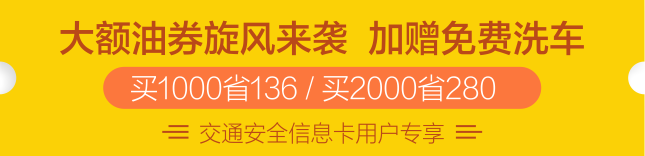
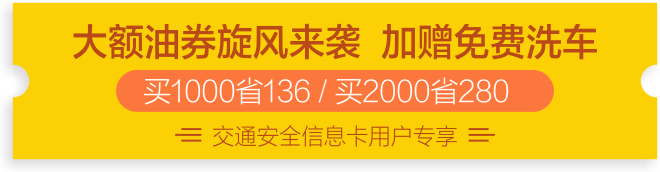
周四秒杀  修改样式 图片 线下调试地址

diff --git a/src/environments/environment.ts b/src/environments/environment.ts
@@ -2,6 +2,8 @@
 // The build system defaults to the dev environment which uses `environment.ts`, but if you do
 // `ng build --env=prod` then `environment.prod.ts` will be used instead.
 // The list of which env maps to which file can be found in `.angular-cli.json`.
+// const baseText = '/ccb-api';
+const baseText = '/cbc-api';
 
 export const environment = {
     production: false,
@@ -10,62 +12,62 @@ export const environment = {
     /**
      * 获取油券列表
      */
-    moneyUrl: '/ccb-api/api/v1/cbc/goods/query',
+    moneyUrl: `${baseText}/api/v1/cbc/goods/query`,
 
     /**
      * 添加订单
      */
-    addOilOrderUrl: '/ccb-api/api/v1/cbc/SecKillOrders',
+    addOilOrderUrl: `${baseText}/api/v1/cbc/SecKillOrders`,
 
     /**
      * 支付订单
      */
-    payOrderdUrl: '/ccb-api/api/v1/cashier/payOrder',
+    payOrderdUrl: `${baseText}/api/v1/cashier/payOrder`,
 
     /**
      * 发送认证信息卡验证码
      */
-    sendAuthMsg: `/ccb-api/api/v1/cbc/auth/sendAuthMsg`,
+    sendAuthMsg: `${baseText}/api/v1/cbc/auth/sendAuthMsg`,
 
     /**
      * 验证并保存信息卡
      */
-    authMsgUrl: `/ccb-api/api/v1/cbc/auth/authMsg`,
+    authMsgUrl: `${baseText}/api/v1/cbc/auth/authMsg`,
 
     /**
      * 查询是否绑定信息卡
      */
-    checkIsAuthUrl: `/ccb-api/api/v1/cbc/auth/checkIsAuth`,
+    checkIsAuthUrl: `${baseText}/api/v1/cbc/auth/checkIsAuth`,
     /**
      * 获取tokenId
      */
-    getTokenUrl: `/ccb-api/api/v1/cbc/account/getToken`,
+    getTokenUrl: `${baseText}/api/v1/cbc/account/getToken`,
 
     /**
      * 汽车养护券
      */
-    receiveVoucher: `/ccb-api/api/v1/cbc/SecKillOrders/giveCareCoupons`,
+    receiveVoucher: `${baseText}/api/v1/cbc/SecKillOrders/giveCareCoupons`,
     /**
      * 获取时间戳
      */
-    getTimeUrl: `/ccb-api/api/v1/cbc/time/nowTime`,
+    getTimeUrl: `${baseText}/api/v1/cbc/time/nowTime`,
 
     /**
      * 汽车养护 获取类别&类别下的商品
      */
-    classifyUrl: `/ccb-api/api/v1/cbc/carLife/category/list`,
+    classifyUrl: `${baseText}/api/v1/cbc/carLife/category/list`,
     /**
      * 汽车养护 下单
      */
-    addCarOrderUrl: `/ccb-api/api/v1/cbc/carLife/orders/add`,
+    addCarOrderUrl: `${baseText}/api/v1/cbc/carLife/orders/add`,
     /**
      * 汽车养护 判断订单是否能够支付
      */
-    judgeCarOrderdUrl: `/ccb-api/api/v1/cbc/carLife/orders/judge`,
+    judgeCarOrderdUrl: `${baseText}/api/v1/cbc/carLife/orders/judge`,
     /**
      * 汽车养护 确认收货
      */
-    carOrderConfirm: `/ccb-api/api/v1/cbc/carLife/orders/confirm`,
+    carOrderConfirm: `${baseText}/api/v1/cbc/carLife/orders/confirm`,
 
   }
 ;

diff --git a/src/app/seckill-activity/index/index.component.html b/src/app/seckill-activity/index/index.component.html
@@ -9,8 +9,12 @@
   </div>
 </div>
 <div *ngIf="!isStart" class="container-fluid px-0 index-bg1" [@flyIn]="'inactive'">
-  <div class="position-relative">
-    <img src="./assets/images/2-11.png" alt="" (click)="banImg($event)" width="100%" height="100%">
+  <div class="row mx-auto mt-10 pb-3 position-relative">
+    <!--<img src="./assets/images/2-11.png" alt="" (click)="banImg($event)" width="100%" height="100%">-->
     <div class="countFont position-absolute text-center">距活动开始还有{{startCountNumber}}天</div>
+    <img class="img-list mt-3" src="./assets/images/2-2-1.png" alt="" height="100%" (click)="banImg($event)">
+    <img class="img-list mt-3" src="./assets/images/2-3-1.png" alt="" height="100%" (click)="banImg($event)">
+    <img class="img-list mt-3" src="./assets/images/2-4-1.png" alt="" height="100%" (click)="banImg($event)">
+    <img class="img-list mt-3" src="./assets/images/2-5.png" [routerLink]="['/seckill/car']" [queryParams]="{'activeType':0}" alt="" height="100%">
   </div>
 </div>

diff --git a/src/app/seckill-activity/index/index.component.scss b/src/app/seckill-activity/index/index.component.scss
@@ -2,28 +2,29 @@
 
 .index-bg {
   @include _bg("../../../assets/images/2-1.png", #fc7a3e);
+}
 
-  .mt-10 {
-    margin-top: 13rem;
-    .img-list {
-      width: 88%;
-      margin: 0 6%;
-      z-index: 100;
-    }
+.mt-10 {
+  margin-top: 13rem;
+  .img-list {
+    width: 88%;
+    margin: 0 6%;
+    z-index: 100;
   }
-
 }
 
 .index-bg1 {
-  position: absolute;
-  top: 0;
-  bottom: 0;
-  left: 0;
-  right: 0;
-  background: #fc7a3e;
-  z-index: -1;
+  /* position: absolute;
+   top: 0;
+   bottom: 0;
+   left: 0;
+   right: 0;
+   background: #fc7a3e;
+   z-index: -1;*/
+  @include _bg("../../../assets/images/2-1-1.png", #fc7a3e);
   .countFont {
-    top: 14%;
+    top: -7.8rem;
+    //top: 14%;
     left: 30%;
     width: 40%;
     padding: 4px 0;

diff --git a/src/index.html b/src/index.html
@@ -3,7 +3,7 @@
 <head>
   <meta charset="utf-8">
   <title></title>
-  <base href="/thursday/">
+  <base href="/">
   <meta name="viewport" content="width=device-width, initial-scale=1, maximum-scale=1, user-scalable=no">
   <link rel="icon" type="image/x-icon" href="favicon.ico">
 </head>
